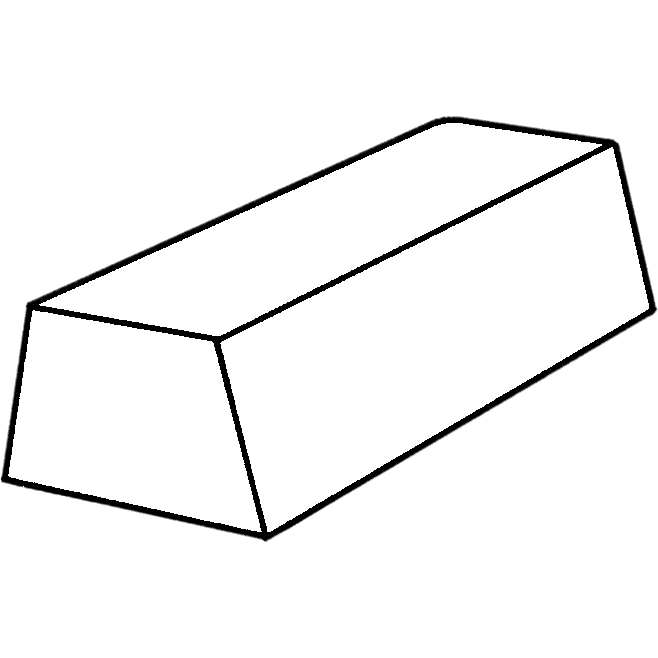
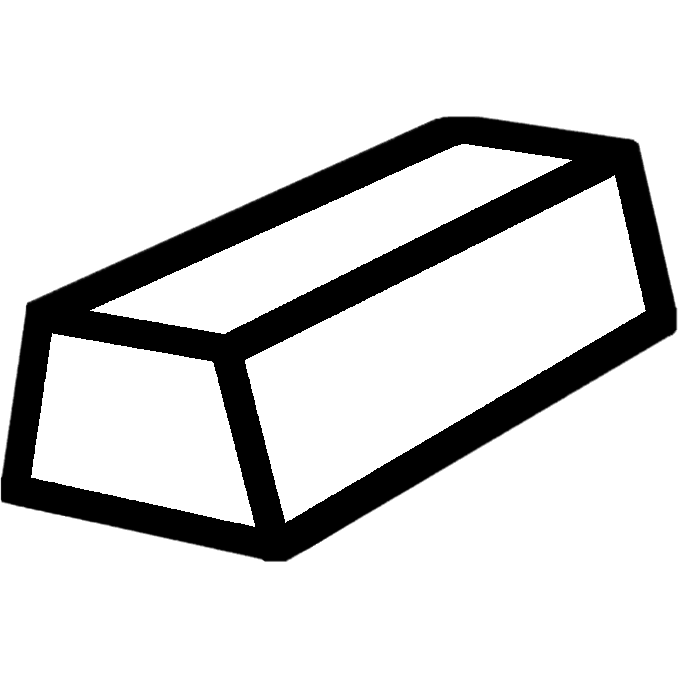
## Three Amendments Done
- **Thicker iron ingot**: The ingot symbol on the tech tree (and mountain ore badge) now has a bold outline, so it's as visible as the other icons instead of a faint thin line — confirmed on screen.
- **Zoom bug fixed**: Pinch-zoom now stays centered instead of drifting off or getting stuck. Root cause was the map scaling around the wrong anchor point while panning fought the zoom; both are now aligned and move smoothly together.
- **Auto-center on turn start**: When a player's turn begins, the camera jumps straight to *their own* capital city. In pass-and-play a turn never opens on the opponent's territory, so players can't peek at each other's positions.

Engine logic still passes 115/115 tests and the UI is lint-clean.

Pinch-zoom and the turn-swap camera are touch/turn behaviors best felt on a real device or Expo Go — please try them and tell me if the feel needs tuning (e.g. zoom toward your fingers vs. screen center).

**Next Action Items:**
- **Zoom To Finger**: Make pinch zoom toward the point between your fingers instead of the screen center for a more natural feel
- **Net Worth Line**: Add a total earned-vs-spent summary at the top of the Economy panel so players see profit at a glance
- **Mine Payoff Hint**: Show a small "+2 iron" preview on mountains so players know a mine's payoff before building it
- **Recenter Button**: Add a quick button that snaps the camera back to your capital any time during your turn

**Note:**
[…]

Changed region(s): [[0.0, 0.152, 1.0, 0.8511]]

diff --git a/frontend/src/components/GameMap.tsx b/frontend/src/components/GameMap.tsx
@@ -243,9 +243,8 @@ export default function GameMap({ state, fog, selectedUnitId, selectedTileId, re
   const tx = useSharedValue(0);
   const ty = useSharedValue(0);
   const scale = useSharedValue(0.9);
-  const startX = useSharedValue(0);
-  const startY = useSharedValue(0);
-  const startScale = useSharedValue(0.9);
+  const vpW = useSharedValue(0);
+  const vpH = useSharedValue(0);
   const viewport = useRef({ w: 0, h: 0 });
   const centered = useRef(false);
 
@@ -344,6 +343,8 @@ export default function GameMap({ state, fog, selectedUnitId, selectedTileId, re
 
   const onLayout = (e: LayoutChangeEvent) => {
     viewport.current = { w: e.nativeEvent.layout.width, h: e.nativeEvent.layout.height };
+    vpW.value = e.nativeEvent.layout.width;
+    vpH.value = e.nativeEvent.layout.height;
     if (!centered.current && centerTileId != null) {
       centered.current = true;
       centerOn(centerTileId);
@@ -361,21 +362,24 @@ export default function GameMap({ state, fog, selectedUnitId, selectedTileId, re
   };
 
   const pan = Gesture.Pan()
-    .onBegin(() => {
-      startX.value = tx.value;
-      startY.value = ty.value;
-    })
-    .onUpdate((e) => {
-      tx.value = startX.value + e.translationX;
-      ty.value = startY.value + e.translationY;
+    .averageTouches(true)
+    .onChange((e) => {
+      tx.value += e.changeX;
+      ty.value += e.changeY;
     });
 
   const pinch = Gesture.Pinch()
-    .onBegin(() => {
-      startScale.value = scale.value;
-    })
-    .onUpdate((e) => {
-      scale.value = Math.min(2.2, Math.max(0.4, startScale.value * e.scale));
+    .onChange((e) => {
+      const newScale = Math.min(2.2, Math.max(0.4, scale.value * e.scaleChange));
+      // Keep the viewport centre fixed while zooming (top-left transform origin:
+      // screen = board * scale + translate). Board point under the centre:
+      const cxp = vpW.value / 2;
+      const cyp = vpH.value / 2;
+      const bx = (cxp - tx.value) / scale.value;
+      const by = (cyp - ty.value) / scale.value;
+      tx.value = cxp - bx * newScale;
+      ty.value = cyp - by * newScale;
+      scale.value = newScale;
     });
 
   const rotate = Gesture.Rotation().onEnd((e) => {
@@ -523,7 +527,7 @@ export default function GameMap({ state, fog, selectedUnitId, selectedTileId, re
   return (
     <View style={styles.viewport} onLayout={onLayout}>
       <GestureDetector gesture={composed}>
-        <Animated.View style={[{ width: boardW, height: boardH }, animStyle]}>
+        <Animated.View style={[{ width: boardW, height: boardH, transformOrigin: "top left" }, animStyle]}>
           <Svg width={boardW} height={boardH} style={StyleSheet.absoluteFill}>
             {terrainShapes}
           </Svg>

diff --git a/frontend/app/game.tsx b/frontend/app/game.tsx
@@ -106,6 +106,16 @@ export default function GameScreen() {
       setFishPlaying(false);
       setCaptureTarget(null);
       setExpandTarget(null);
+      // Snap the camera to the new player's capital so a turn never starts
+      // showing an opponent's territory (important for pass-and-play).
+      const cur = state.currentPlayer;
+      if (state.players[cur]?.isHuman) {
+        const cap = state.cities.find((c) => c.owner === cur && c.isCapital) ?? state.cities.find((c) => c.owner === cur);
+        if (cap) {
+          setFocusTileId(cap.tileId);
+          setFocusKey((k) => k + 1);
+        }
+      }
     }
   }, [state?.currentPlayer, state]);
 
@@ -154,7 +164,10 @@ export default function GameScreen() {
 
   if (!state) return <View style={{ flex: 1, backgroundColor: C.surface }} />;
 
-  const capitalTile = state.cities.find((c) => c.owner === 0 && c.isCapital)?.tileId ?? state.tiles[0].id;
+  const capitalTile = state.cities.find((c) => c.owner === state.currentPlayer && c.isCapital)?.tileId
+    ?? state.cities.find((c) => c.owner === state.currentPlayer)?.tileId
+    ?? state.cities.find((c) => c.owner === 0 && c.isCapital)?.tileId
+    ?? state.tiles[0].id;
 
   const onTileTap = (tileId: number) => {
     if (!interactive) return;
